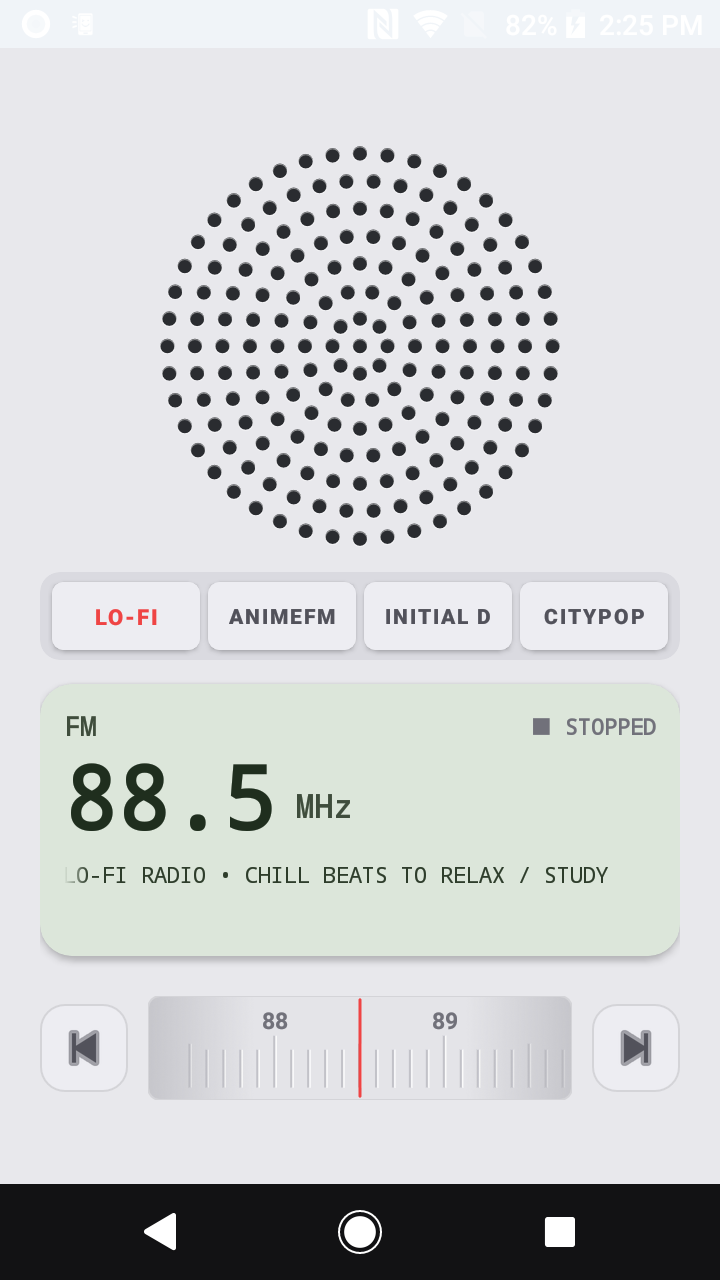
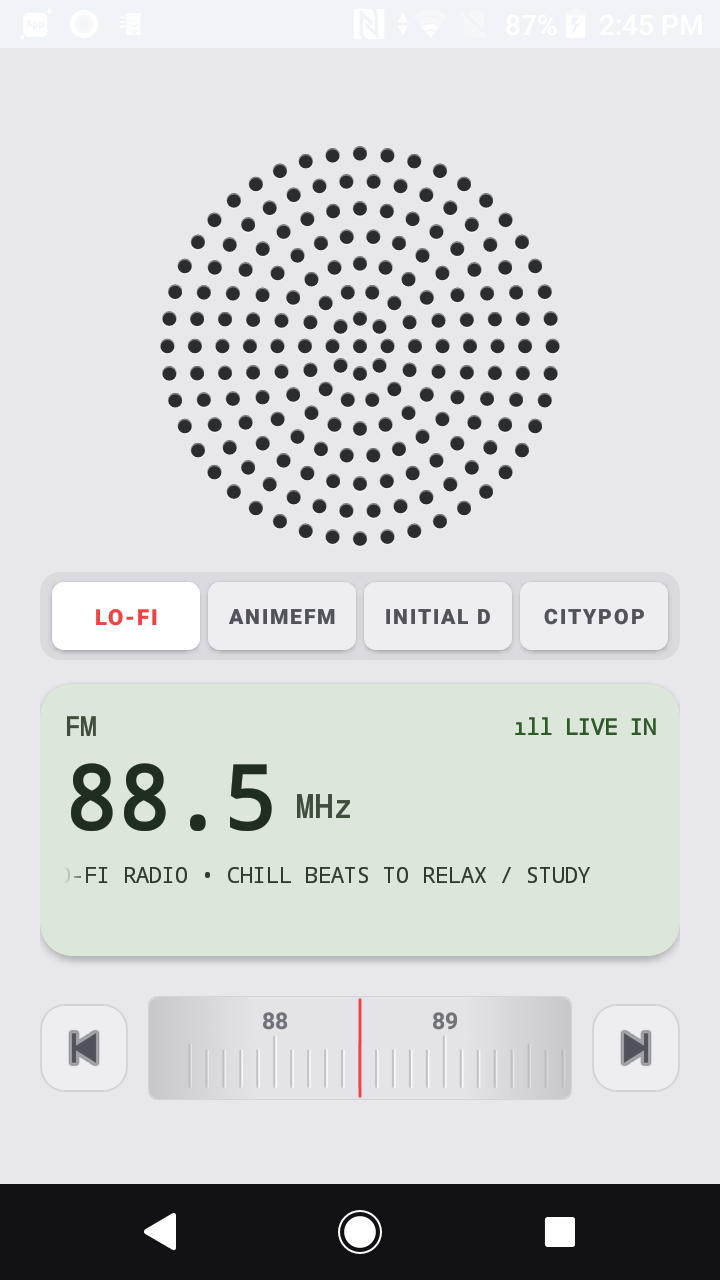
fix(radio): grant INTERNET permissions, update verified stream URLs, and configure HTTP redirects for live radio

diff --git a/app/src/main/java/com/hana/spindle/playback/RadioStreamEngine.kt b/app/src/main/java/com/hana/spindle/playback/RadioStreamEngine.kt
@@ -1,13 +1,18 @@
 package com.hana.spindle.playback
 
 import android.content.Context
+import android.util.Log
 import androidx.media3.common.AudioAttributes
 import androidx.media3.common.C
 import androidx.media3.common.MediaItem
 import androidx.media3.common.PlaybackException
 import androidx.media3.common.Player
+import androidx.media3.datasource.DefaultDataSource
+import androidx.media3.datasource.DefaultHttpDataSource
 import androidx.media3.exoplayer.DefaultLoadControl
 import androidx.media3.exoplayer.ExoPlayer
+import androidx.media3.exoplayer.source.DefaultMediaSourceFactory
+import com.hana.spindle.SpindleApp
 import kotlinx.coroutines.flow.MutableStateFlow
 import kotlinx.coroutines.flow.StateFlow
 import kotlinx.coroutines.flow.asStateFlow
@@ -25,14 +30,16 @@ data class RadioPlaybackState(
     val isPlaying: Boolean = false,
     val isBuffering: Boolean = false,
     val currentStation: RadioStation? = null,
-    val currentFrequency: Float = 98.2f,
+    val currentFrequency: Float = 88.5f,
     val volume: Float = 0.8f,
     val isMuted: Boolean = false
 )
 
-class RadioStreamEngine(context: Context) {
+class RadioStreamEngine(private val context: Context) {
 
     companion object {
+        private const val TAG = "RadioStreamEngine"
+
         val PRESET_STATIONS = listOf(
             RadioStation(
                 frequencyMhz = 88.5f,
@@ -46,14 +53,14 @@ class RadioStreamEngine(context: Context) {
                 callsign = "ANIMEFM",
                 rdsName = "ANIMEFM RADIO • 24/7 ANIME OST & J-POP",
                 genre = "Anime & J-Pop",
-                streamUrl = "https://listen.moe/stream"
+                streamUrl = "https://listen.moe/fallback"
             ),
             RadioStation(
                 frequencyMhz = 98.6f,
                 callsign = "INITIAL D",
                 rdsName = "INITIAL D WORLD RADIO • EUROBEAT SPEEDWAY",
                 genre = "Eurobeat / High Octane",
-                streamUrl = "https://stream.nightride.fm/nightride.m4a"
+                streamUrl = "https://stream.laut.fm/eurobeat"
             ),
             RadioStation(
                 frequencyMhz = 104.2f,
@@ -81,17 +88,28 @@ class RadioStreamEngine(context: Context) {
             .setContentType(C.AUDIO_CONTENT_TYPE_MUSIC)
             .build()
 
-        // Fast-buffering LoadControl for live internet radio (3.5 sec max)
+        // Robust HTTP data source supporting Icecast/Shoutcast redirects & custom agent
+        val httpDataSourceFactory = DefaultHttpDataSource.Factory()
+            .setUserAgent("Spindle/1.0 (Linux; Android DAP) ExoPlayer")
+            .setConnectTimeoutMs(10000)
+            .setReadTimeoutMs(15000)
+            .setAllowCrossProtocolRedirects(true)
+
+        val dataSourceFactory = DefaultDataSource.Factory(context, httpDataSourceFactory)
+        val mediaSourceFactory = DefaultMediaSourceFactory(dataSourceFactory)
+
+        // Fast-buffering LoadControl for live internet radio
         val loadControl = DefaultLoadControl.Builder()
             .setBufferDurationsMs(
-                1500,  // Min buffer ms
-                5000,  // Max buffer ms
-                1000,  // Playback buffer ms
-                1500   // Rebuffer ms
+                2000,  // Min buffer ms
+                8000,  // Max buffer ms
+                1500,  // Playback buffer ms
+                2000   // Rebuffer ms
             )
             .build()
 
         exoPlayer = ExoPlayer.Builder(context)
+            .setMediaSourceFactory(mediaSourceFactory)
             .setAudioAttributes(audioAttributes, true)
             .setLoadControl(loadControl)
             .build().apply {
@@ -99,15 +117,18 @@ class RadioStreamEngine(context: Context) {
                 volume = 0.8f
                 addListener(object : Player.Listener {
                     override fun onIsPlayingChanged(isPlaying: Boolean) {
+                        Log.i(TAG, "onIsPlayingChanged: $isPlaying")
                         _radioState.value = _radioState.value.copy(isPlaying = isPlaying)
                     }
 
                     override fun onPlaybackStateChanged(playbackState: Int) {
                         val isBuffering = (playbackState == Player.STATE_BUFFERING) && exoPlayer.playWhenReady
+                        Log.i(TAG, "onPlaybackStateChanged: state=$playbackState, isBuffering=$isBuffering, playWhenReady=${exoPlayer.playWhenReady}")
                         _radioState.value = _radioState.value.copy(isBuffering = isBuffering)
                     }
 
                     override fun onPlayerError(error: PlaybackException) {
+                        Log.e(TAG, "onPlayerError: ${error.errorCodeName} - ${error.message}", error)
                         _radioState.value = _radioState.value.copy(isPlaying = false, isBuffering = false)
                     }
                 })
@@ -116,13 +137,16 @@ class RadioStreamEngine(context: Context) {
 
     fun tuneTo(frequency: Float) {
         val matchingStation = findNearestStation(frequency)
+        val prevStation = _radioState.value.currentStation
         _radioState.value = _radioState.value.copy(
             currentFrequency = frequency,
             currentStation = matchingStation
         )
 
         if (matchingStation != null) {
-            playStation(matchingStation)
+            if (prevStation?.frequencyMhz != matchingStation.frequencyMhz || (!exoPlayer.isPlaying && !_radioState.value.isBuffering)) {
+                playStation(matchingStation)
+            }
         } else {
             // Static / White Noise or silence between stations
             pause()
@@ -130,12 +154,26 @@ class RadioStreamEngine(context: Context) {
     }
 
     fun playStation(station: RadioStation) {
+        Log.i(TAG, "playStation: ${station.callsign} (${station.frequencyMhz} MHz) -> ${station.streamUrl}")
+        try {
+            (context.applicationContext as? SpindleApp)?.audioEngine?.pause()
+        } catch (e: Exception) {
+            Log.w(TAG, "Could not pause audioEngine: ${e.message}")
+        }
         _radioState.value = _radioState.value.copy(
             currentStation = station,
             currentFrequency = station.frequencyMhz,
             isBuffering = true
         )
-        val mediaItem = MediaItem.fromUri(station.streamUrl)
+        val mediaItem = MediaItem.Builder()
+            .setUri(station.streamUrl)
+            .setLiveConfiguration(
+                MediaItem.LiveConfiguration.Builder()
+                    .setMaxPlaybackSpeed(1.02f)
+                    .setMinPlaybackSpeed(0.98f)
+                    .build()
+            )
+            .build()
         exoPlayer.setMediaItem(mediaItem)
         exoPlayer.prepare()
         exoPlayer.play()
@@ -145,11 +183,13 @@ class RadioStreamEngine(context: Context) {
         if (exoPlayer.isPlaying || _radioState.value.isBuffering) {
             pause()
         } else {
-            _radioState.value.currentStation?.let { playStation(it) }
+            val targetStation = _radioState.value.currentStation ?: PRESET_STATIONS[0]
+            playStation(targetStation)
         }
     }
 
     fun pause() {
+        Log.i(TAG, "pause() called: stopping exoPlayer")
         exoPlayer.stop()
         _radioState.value = _radioState.value.copy(isPlaying = false, isBuffering = false)
     }

diff --git a/app/src/main/java/com/hana/spindle/playback/AudioEngine.kt b/app/src/main/java/com/hana/spindle/playback/AudioEngine.kt
@@ -110,6 +110,11 @@ class AudioEngine(
 
     private fun playCurrentTrack() {
         if (currentIndex !in playlist.indices) return
+        try {
+            (context.applicationContext as? com.hana.spindle.SpindleApp)?.radioStreamEngine?.pause()
+        } catch (e: Exception) {
+            // ignore
+        }
         val song = playlist[currentIndex]
 
         val mediaItem = MediaItem.fromUri(Uri.fromFile(File(song.path)))
@@ -138,7 +143,7 @@ class AudioEngine(
         if (exoPlayer.isPlaying) {
             exoPlayer.pause()
         } else {
-            exoPlayer.play()
+            play()
         }
     }
 
@@ -147,6 +152,11 @@ class AudioEngine(
     }
 
     fun play() {
+        try {
+            (context.applicationContext as? com.hana.spindle.SpindleApp)?.radioStreamEngine?.pause()
+        } catch (e: Exception) {
+            // ignore
+        }
         exoPlayer.play()
     }
 
